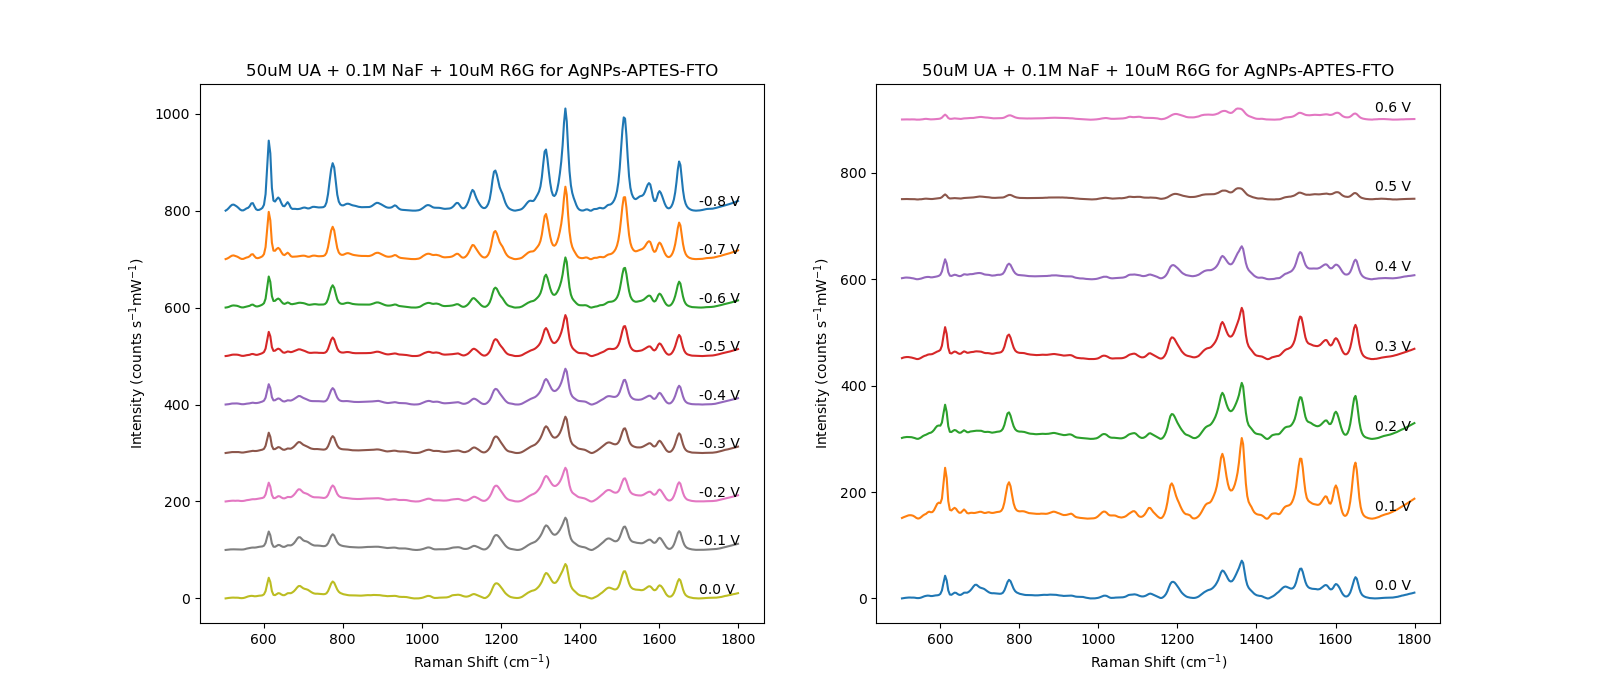
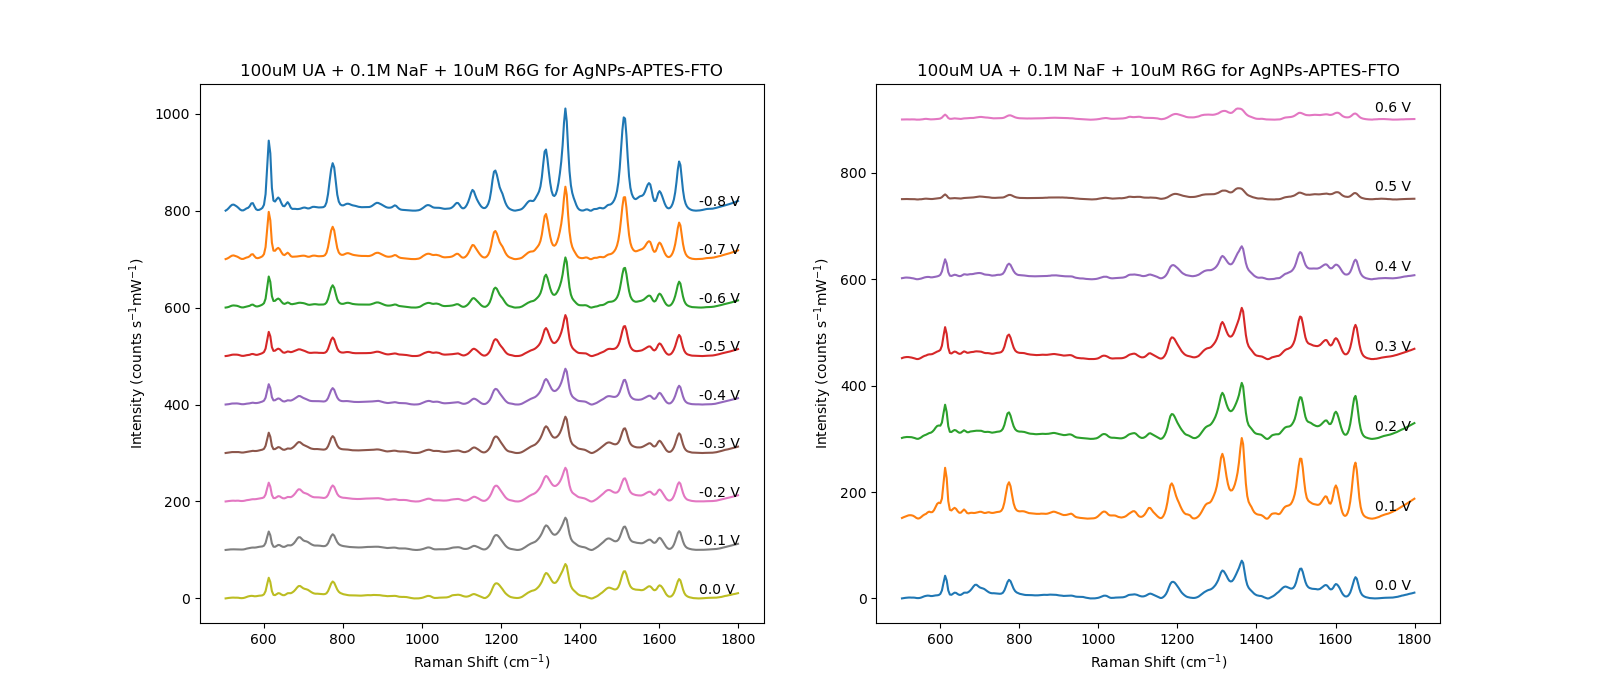
Revise title

Changed region(s): [[0.5625, 0.09, 0.875, 0.12], [0.1562, 0.09, 0.4688, 0.12]]

diff --git a/E_SERS_UA_CRN_MSc_Thesis/DataProcessing/AgNPs_UA_100uM_Jul11.py b/E_SERS_UA_CRN_MSc_Thesis/DataProcessing/AgNPs_UA_100uM_Jul11.py
@@ -11,7 +11,7 @@ df_mean.to_csv('../Data_csv/AgNPs_UA_100uM_Jul11_average.csv', index=False)
 
 fig, (ax1, ax2) = plt.subplots(1, 2, figsize=(16, 7))
 for ax in [ax1, ax2]:
-    ax.set_title('50uM UA + 0.1M NaF + 10uM R6G for AgNPs-APTES-FTO')
+    ax.set_title('100uM UA + 0.1M NaF + 10uM R6G for AgNPs-APTES-FTO')
     ax.set_xlabel('Raman Shift ($\mathregular{cm^{-1}}$)')
     ax.set_ylabel('Intensity (counts $\mathregular{s^{-1}mW^{-1}}$)')
 
